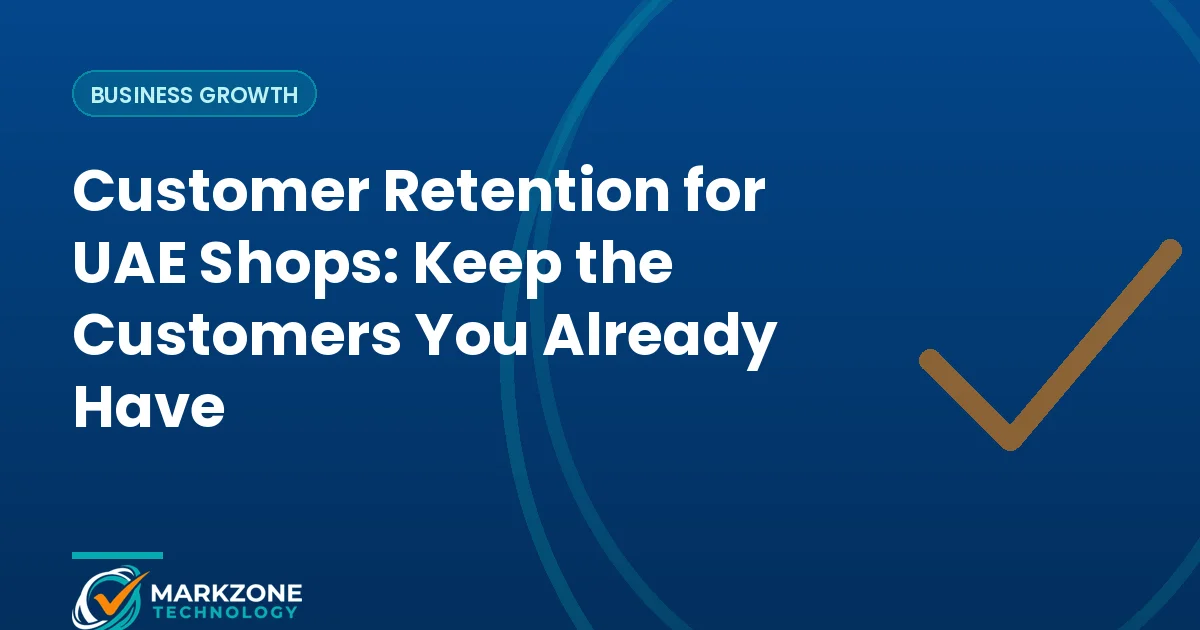
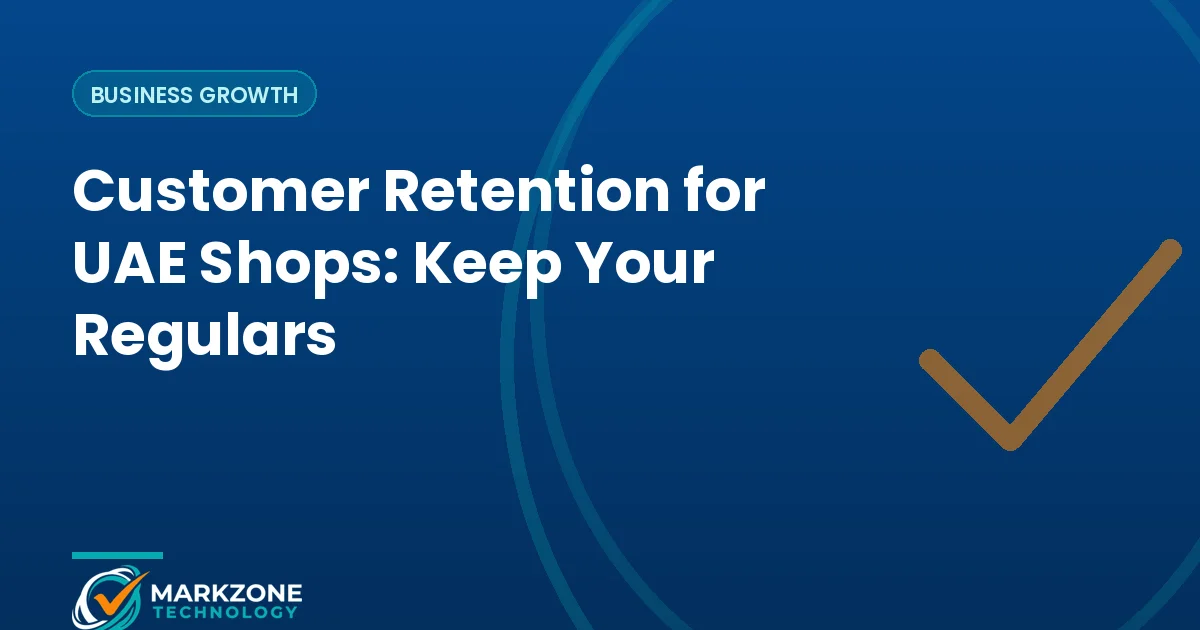
SEO metadata: titles ≤65 and descriptions 70–160 chars on all 79 pages; tighter limits in Blog Manager

Changed region(s): [[0.0617, 0.4825, 0.6475, 0.6937], [0.4625, 0.3921, 0.6167, 0.4524]]

diff --git a/src/data/products.ts b/src/data/products.ts
@@ -17,7 +17,7 @@ export const PRODUCTS: Product[] = [
   {
     slug: 'oxpos', name: 'OxPOS', accent: '#DF7F36', tone: 'ox', logo: '/img/oxpos-logo.webp',
     seoTitle: 'OxPOS | Retail POS & Inventory Software in Dubai, UAE | MarkZone',
-    seoDesc: 'OxPOS is retail management software for UAE shops: fast POS, inventory, purchases, expenses, salaries, consignment and VAT reports. 1,500 AED with the first year included.',
+    seoDesc: 'OxPOS retail software for UAE shops: fast POS, inventory, purchases, expenses, salaries, consignment and VAT reports. 1,500 AED with year one included.',
     kicker: 'Retail management',
     h1: 'Run your whole shop from one system',
     lead: 'OxPOS brings your sales, stock, purchases, expenses and salaries into one place, with the reports to see exactly where your money goes.',
@@ -60,8 +60,8 @@ export const PRODUCTS: Product[] = [
   },
   {
     slug: 'zainaapp', name: 'ZainaApp', accent: '#B8862F', tone: 'zaina', logo: '/img/zaina-logo.webp',
-    seoTitle: 'ZainaApp | Salon & Spa Management Software in Dubai, UAE | MarkZone',
-    seoDesc: 'ZainaApp is salon and spa software for the UAE: appointments, online booking, WhatsApp notifications, staff commissions, POS and reports. 1,500 AED with the first year included.',
+    seoTitle: 'ZainaApp | Salon & Spa Software in Dubai, UAE | MarkZone',
+    seoDesc: 'ZainaApp salon and spa software for the UAE: appointments, online booking, WhatsApp notifications, staff commissions and reports. 1,500 AED, year one included.',
     kicker: 'Salon & spa management',
     h1: 'A calmer salon, from booking to commission',
     lead: 'ZainaApp organizes your appointments, clients and staff, and works out every commission for you, so the day runs smoothly and month end is simple.',
@@ -99,7 +99,7 @@ export const PRODUCTS: Product[] = [
   {
     slug: 'texpos', name: 'TexPOS', accent: '#BF9B30', tone: 'tex', logo: '/img/texpos-logo.webp',
     seoTitle: 'TexPOS | Tailoring Shop Management App in the UAE | MarkZone',
-    seoDesc: 'TexPOS is a tailoring shop app for the UAE: saved measurements including shaila and ghutra, job orders to the tailor on WhatsApp, deposits and fabric stock. 1,000 AED first year.',
+    seoDesc: 'TexPOS tailoring app for the UAE: saved measurements incl. shaila and ghutra, job orders to the tailor on WhatsApp, deposits and fabric stock. 1,000 AED.',
     kicker: 'Bespoke tailoring management',
     h1: 'Every measurement, every order, in one place',
     lead: 'TexPOS keeps measurements and order details together from the counter to the tailor, so mistakes and remakes stop costing you.',

diff --git a/src/i18n/home.ts b/src/i18n/home.ts
@@ -20,7 +20,7 @@ export interface HomeCopy {
 
 export const EN: HomeCopy = {
   title: 'MarkZone Technology | Business Apps, POS & Websites in Dubai, UAE',
-  description: 'Dubai software company helping UAE SMEs get organized: OxPOS for retail, ZainaApp for salons, TexPOS for tailors, plus websites in 2 weeks. Trusted by 400+ businesses since 2019.',
+  description: 'Dubai software company helping UAE SMEs get organized: OxPOS for retail, ZainaApp for salons, TexPOS for tailors, and websites in 2 weeks.',
   kicker: 'Business software for UAE SMEs · Since 2019',
   h1a: 'Organize your business.', h1b: 'Grow your sales.',
   lead: 'Apps made for how UAE shops, salons and tailors actually work. Sales, stock, staff and reports in one place, set up the same day, with real local support on WhatsApp.',
@@ -86,7 +86,7 @@ export const EN: HomeCopy = {
 };
 
 export const AR: HomeCopy = {
-  title: 'ماركزون تكنولوجي | برامج إدارة المحلات ونقاط البيع وتصميم المواقع في دبي',
+  title: 'ماركزون تكنولوجي | برامج المحلات ونقاط البيع في دبي',
   description: 'شركة برمجيات في دبي تساعد الشركات الصغيرة في الإمارات تنظم شغلها: OxPOS للمحلات، ZainaApp للصالونات، TexPOS للخياطين، ومواقع تتسلم خلال أسبوعين.',
   kicker: 'برامج للشركات الصغيرة والمتوسطة في الإمارات · من 2019',
   h1a: 'نظّم شغلك..', h1b: 'وكبّر مبيعاتك',

diff --git a/src/content.config.ts b/src/content.config.ts
@@ -11,7 +11,7 @@ export const CATEGORIES = {
 
 const post = z.object({
   title: z.string(),
-  description: z.string().max(170),
+  description: z.string().max(160),
   date: z.coerce.date(),
   updated: z.coerce.date().optional(),
   category: z.enum(Object.keys(CATEGORIES) as [keyof typeof CATEGORIES, ...(keyof typeof CATEGORIES)[]]),

diff --git a/src/content/blog/en/dubai-cashless-strategy-2026.md b/src/content/blog/en/dubai-cashless-strategy-2026.md
@@ -1,6 +1,6 @@
 ---
 title: "Going Cashless: Keeping Your Shop’s Payment Records Organized"
-description: "UAE customers increasingly pay by card and phone. How shops and salons can keep mixed cash and digital payments organized, from the till to the end-of-day report."
+description: "UAE customers increasingly pay by card and phone. How shops and salons can keep mixed cash and digital payments organized, from till to end of day."
 date: 2026-01-09
 updated: 2026-09-21
 category: business-growth

diff --git a/src/content/blog/en/cloud-pos-data-security.md b/src/content/blog/en/cloud-pos-data-security.md
@@ -1,6 +1,6 @@
 ---
 title: "Is My Business Data Safe in the Cloud? Questions to Ask"
-description: "Moving sales and stock data online raises fair questions about safety. What UAE SME owners should ask any software provider, and simple habits that protect your data."
+description: "Moving sales and stock data online raises fair questions about safety. What to ask any software provider, and simple habits that protect your data."
 date: 2026-01-09
 updated: 2026-09-21
 category: technology

diff --git a/src/content/blog/en/upgrade-cash-register-to-cloud-pos.md b/src/content/blog/en/upgrade-cash-register-to-cloud-pos.md
@@ -1,6 +1,6 @@
 ---
 title: "5 Signs It’s Time to Upgrade Your Old Cash Register"
-description: "Still running your shop on an old cash register? Here are five clear signs it is costing you sales, stock and time, and what to look for in a modern retail system."
+description: "Still running your shop on an old cash register? Five clear signs it is costing you sales, stock and time, and what to look for in a modern system."
 date: 2026-01-09
 updated: 2026-09-21
 category: retail-tips

diff --git a/src/content/blog/en/why-local-tech-partners-matter-uae.md b/src/content/blog/en/why-local-tech-partners-matter-uae.md
@@ -1,6 +1,6 @@
 ---
 title: "Why a Local Tech Partner Matters for Dubai SMEs"
-description: "Software is only as good as the support behind it. Why UAE SMEs benefit from a local technology partner who understands Arabic, VAT, AED and how local shops work."
+description: "Software is only as good as the support behind it. Why UAE SMEs benefit from a local tech partner who understands Arabic, VAT, AED and local shops."
 date: 2026-04-01
 updated: 2026-09-21
 category: markzone-news

diff --git a/src/content/blog/en/pos-api-integration-ecommerce.md b/src/content/blog/en/pos-api-integration-ecommerce.md
@@ -1,6 +1,6 @@
 ---
 title: "Connecting Your Website and Your Shop: What SMEs Should Know"
-description: "Selling online and in store from the same stock? What UAE SMEs should consider before connecting their website to their shop, and when custom software makes sense."
+description: "Selling online and in store from the same stock? What UAE SMEs should consider before connecting their website to their shop systems."
 date: 2026-01-09
 updated: 2026-09-21
 category: technology

diff --git a/src/content/blog/en/local-support-across-uae.md b/src/content/blog/en/local-support-across-uae.md
@@ -1,6 +1,6 @@
 ---
 title: "How MarkZone Support Works Across the UAE"
-description: "What happens after you buy from MarkZone: onboarding, Excel data migration, WhatsApp support daily from 10 AM to 10 PM, and on-site visits across all 7 emirates."
+description: "What happens after you buy from MarkZone: onboarding, Excel data migration, WhatsApp support daily 10 AM–10 PM, and on-site visits across the UAE."
 date: 2026-01-09
 updated: 2026-09-21
 category: markzone-news

diff --git a/src/content/blog/en/reduce-salon-no-shows-zainaapp.md b/src/content/blog/en/reduce-salon-no-shows-zainaapp.md
@@ -1,6 +1,6 @@
 ---
 title: "How to Reduce No-Shows at Your Salon"
-description: "Missed appointments cost salons time and money that cannot be recovered. Practical steps UAE salons and spas can take to reduce no-shows, and how ZainaApp helps."
+description: "Missed appointments cost salons time and money. Practical steps UAE salons and spas can take to reduce no-shows, and how ZainaApp helps."
 date: 2026-01-09
 updated: 2026-09-21
 category: salon-business

diff --git a/src/content/blog/en/ethernet-vs-wifi-pos.md b/src/content/blog/en/ethernet-vs-wifi-pos.md
@@ -1,5 +1,5 @@
 ---
-title: "Wired or WiFi? Getting a Reliable Connection for Your Shop Counter"
+title: "Wired or WiFi? A Reliable Connection for Your Shop Counter"
 description: "A dropped connection at the counter means delays and frustrated customers. When to use a wired connection, when WiFi is fine, and how to keep your shop online."
 date: 2026-01-09
 updated: 2026-09-21

diff --git a/src/content/blog/en/customer-retention-loyalty.md b/src/content/blog/en/customer-retention-loyalty.md
@@ -1,5 +1,5 @@
 ---
-title: "Customer Retention for UAE Shops: Keep the Customers You Already Have"
+title: "Customer Retention for UAE Shops: Keep Your Regulars"
 description: "Regular customers are the most reliable part of a shop’s sales. Practical ways UAE retailers and salons can know their customers better and bring them back."
 date: 2026-01-09
 updated: 2026-09-21
